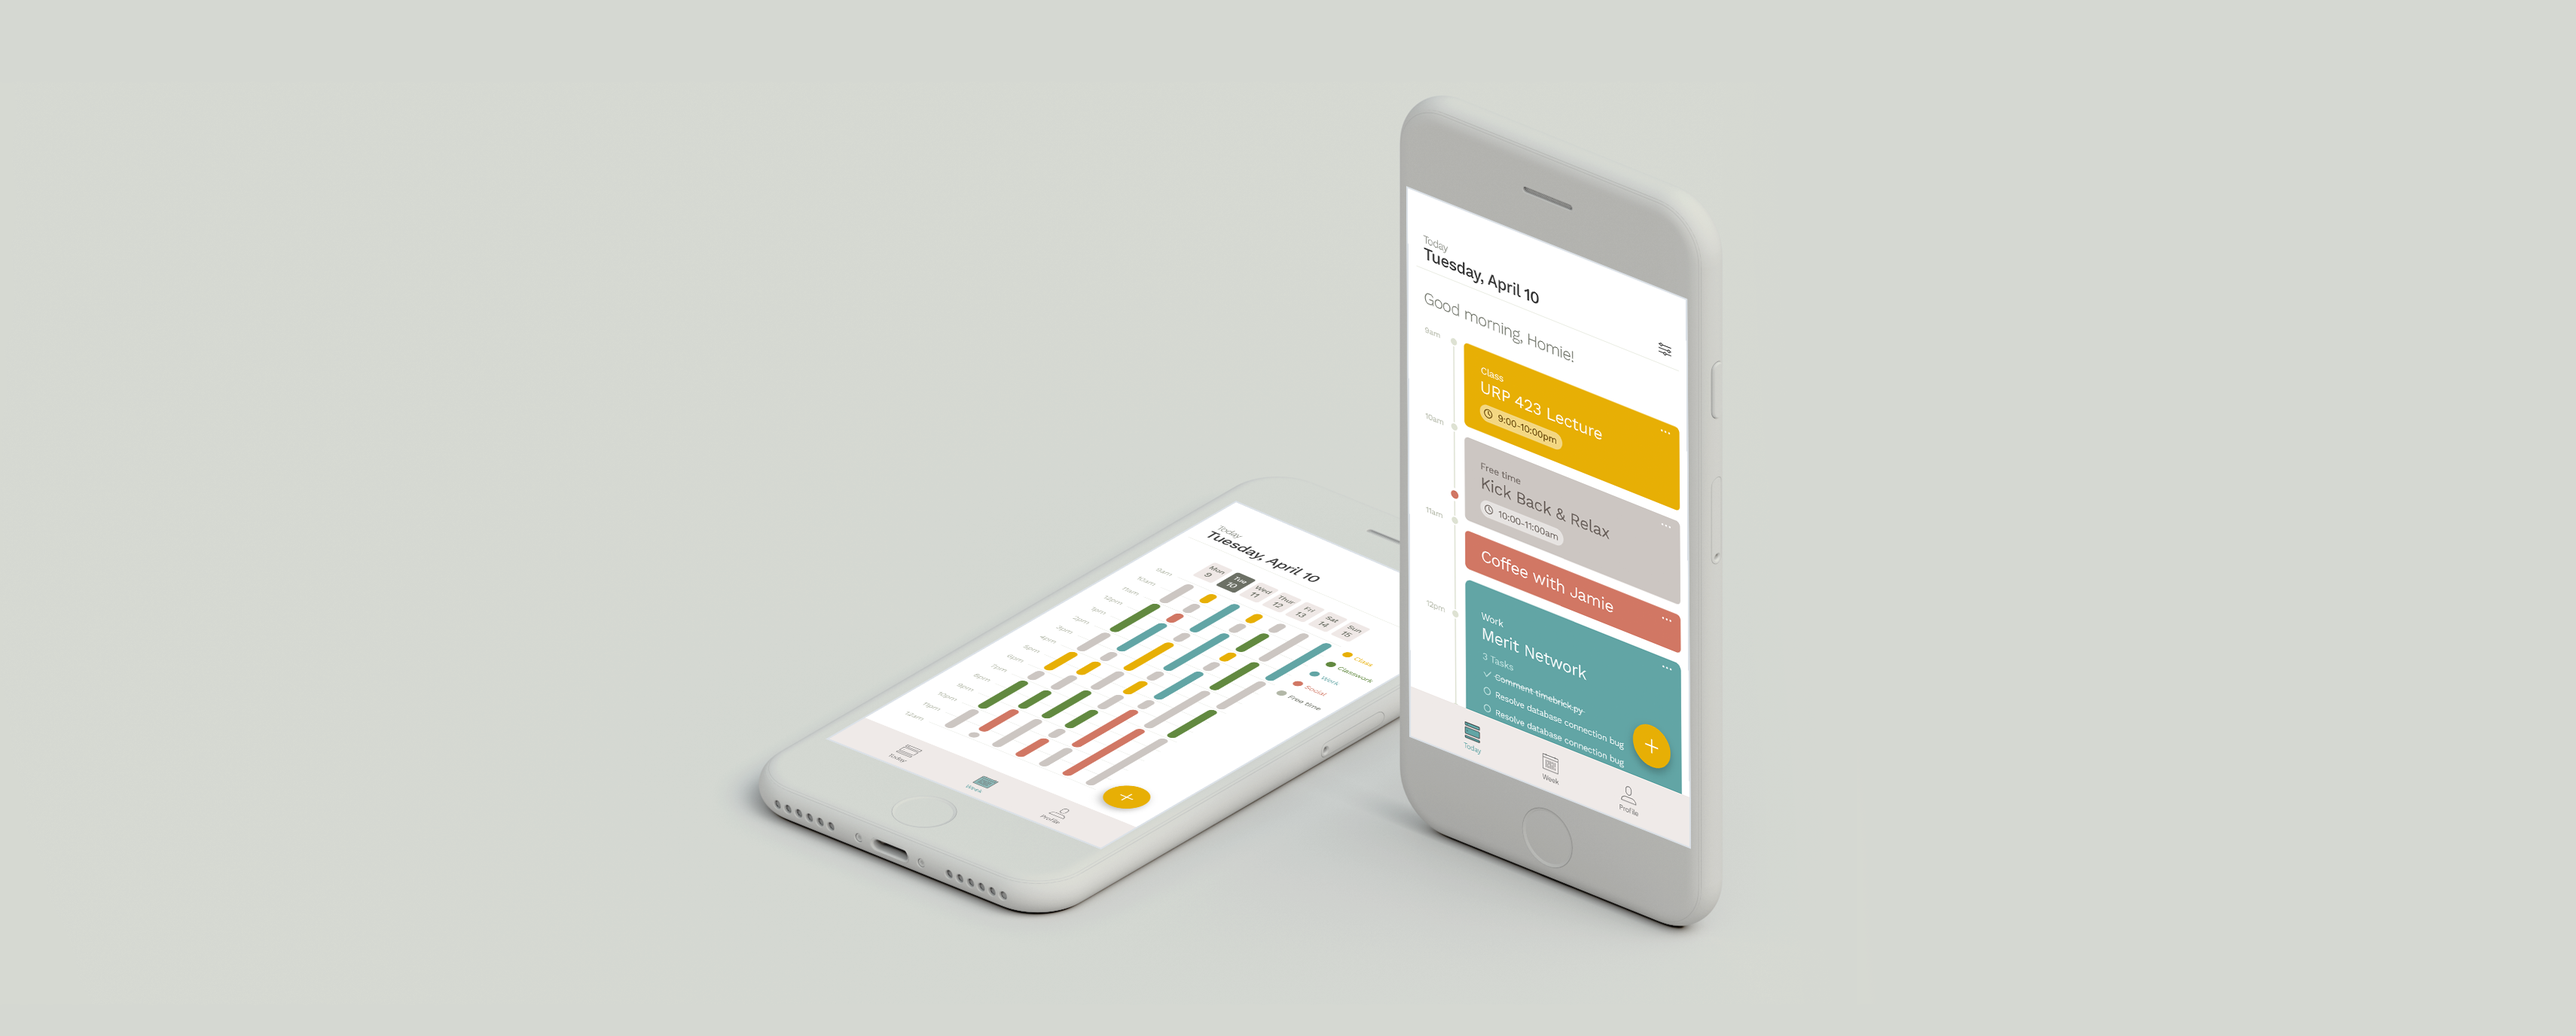
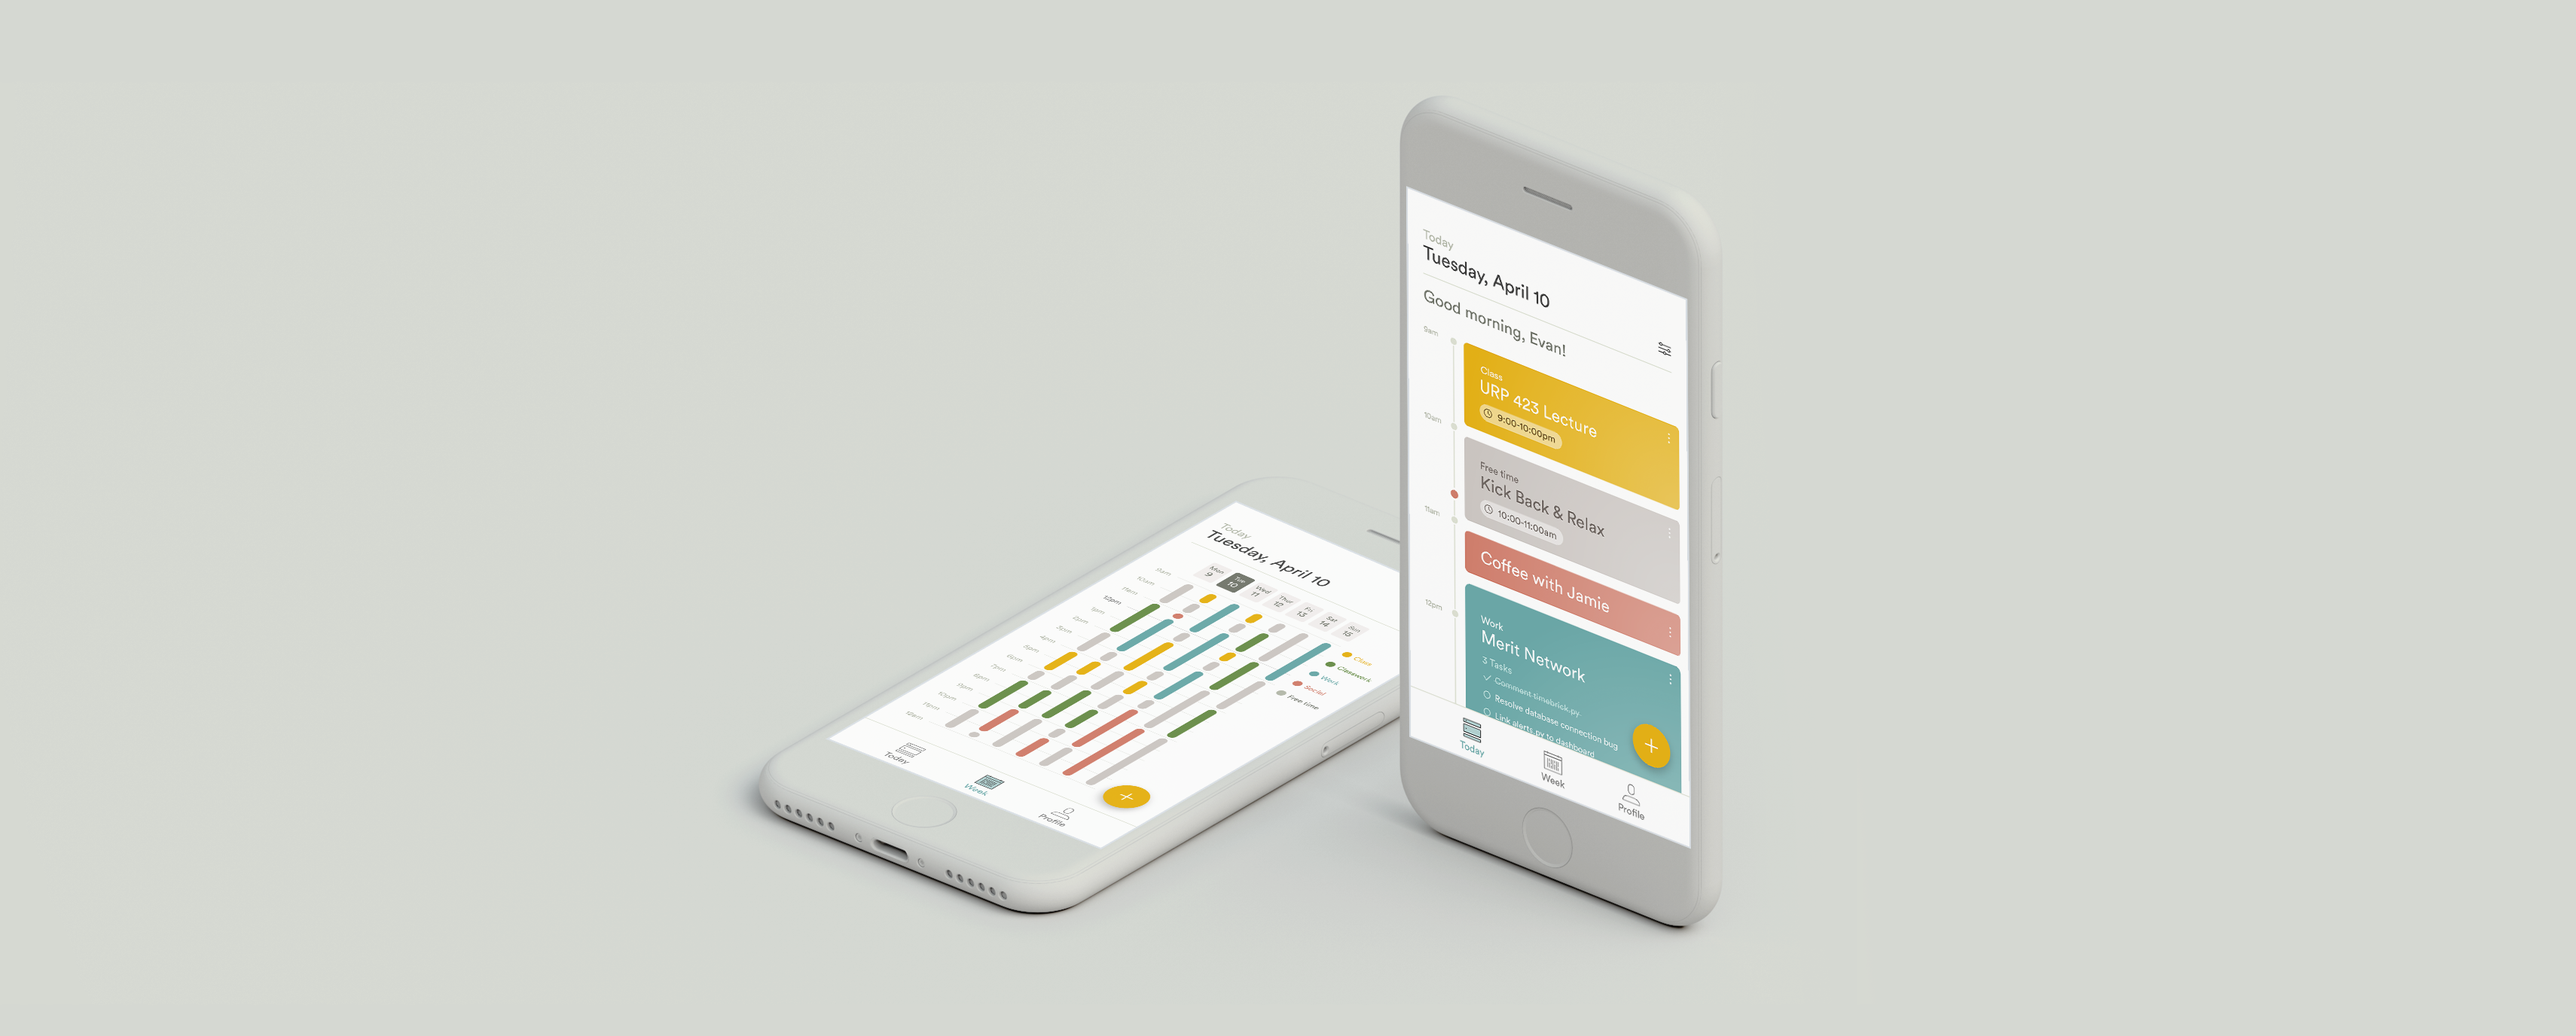
Lifework updates

diff --git a/lifework.html b/lifework.html
@@ -105,25 +105,51 @@
 
 		<div class="project_section">
 			<h3 class="lifework-color">The Process: Design</h3>
-			<span class="summary">To effectively design a solution to reduce stress related to time management, I had to create a system for visualizing how time is used that avoided the daunting look of an average calendar layout. </span>
+			<span class="summary">To effectively design a solution to reduce stress related to time management, I had to prioritize free time and social time just as much as class, classwork, and work as well as create a system for visualizing how time is used that avoided the daunting look of an average calendar layout.</span>
 
 			<h4>Wireframing</h4>
 			<p class="last-p">With the key findings and persona in mind, I began wireframing ideas of the general functionality of the application. I identified four main pages of the application: daily schedule, weekly schedule, event creation, and profile. These pages were essentially the minimum content and functionality that would allow the users to benefit from the app.</p>
 
-			<h4>Visualizing Time</h4>
-			<p>With these main pages in mind, the primary issue that I had to solve was creating a system for visualizing time management. I wanted to avoid the common calendar layout (similar to Google Calendar) as this can quickly become daunting as more events are added to a calendar.</p>
+			<img src="static/lifework/process-01.png">
 
-			<p class="last-p">While my design for the daily schedule page was a simple scrollable timeline, my design for the weekly schedule focused on a simple “mosaic” plot of how time is being used each day. Within the visualization itself, no information is given further than the event-types (free time, social, work, class, or classwork) and the times they occupy. This reduces cognitive overload by avoiding excessive information and allows the user to focus on how they are spending their time each day rather than what exact things they have planned. The user can tap an event to see more details, but this mosaic visualization focuses on time management rather than specific tasks.</p>
+			<h4>Feedback on Wireframes</h4>
+			<p>Based on feedback from my wireframes, I realized two main issues. The first was that free time and social time should be categorized as events on a schedule just as work or class were. This would help reinforce the idea that free time and social time were built into the schedule and just as important as school and work.</p>
+
+			<p class="last-p">The second point of feedback was that the weekly schedule should be portrayed in a less daunting manner than the common calendar layout (similar to Google Calendar) as this can quickly become daunting as more events are added to a calendar.</p>
+
+			<h4>Daily Schedule</h4>
+			<p class="last-p">I began creating visual mockups of how information would be presented on event cards that would fill users’ daily schedules. I focused on creating a colorful and pleasant visual style with enough contrast and bold colors to quickly identify event-types (class, classwork, work, social, free time). In presenting information, I decided that salience based on color was an important factor in allowing quick identification of event type, but text displaying event type was also needed to clear any confusion and ensure accessibility.</p>
+
+			<img src="static/lifework/process-03.png">
+
+			<h4>Visualizing Weekly Time</h4>
+			<p class="last-p">While my design for the daily schedule page was a simple scrollable timeline, my design for the weekly schedule focused on a simple “mosaic” plot of how time is being used each day. Within the visualization itself, no information is given further than the event-types  and the times they occupy. This reduces cognitive overload by avoiding excessive information and allows the user to focus on how they are spending their time each day rather than what exact things they have planned. The user can tap an event to see more details, but this mosaic visualization focuses on time management rather than specific tasks.</p>
+
+			<img src="static/lifework/process-02.png" class="small-img">
+
+		</div>
+
+		<div class="project_section">
+			<h3 class="lifework-color">The Product</h3>
+			<span class="summary">As a concept product, I created a simple prototype of Lifework as well as experimented with motion design to give a closer look at how people would interact with the interface of the application.</span>
+
+			<h4>Hi-Fi Mock Ups</h4>
+			<p class="last-p">As a concept product, I could focus on creating a pleasant user experience for Lifework rather than building around the technical constraints that would come along with creating an application that syncs with so many other systems. I took this opportunity to create high fidelity mockups in both Adobe Illustrator as well as InVision Studio.</p>
+
+			<img src="static/lifework/hi-fi-mockups-01.png" class="large-img">
+
+			<h4>Simple InVision Prototype</h4>
+			<p>Aside from mockups and motion design, I also created a simple InVision prototype to layout the general functionality of Lifework.</p>
+
+			<p>Interact with the prototype <a href="https://invis.io/6CGE9VXJFVT" target=_blank>here</a>.</p>
 
 		</div>
 
 		<div class="project_section">
 			<h3 class="lifework-color">Reflection</h3>
-			<h4>Asking Questions</h4>
-			<p>Coming into the project, I found myself in a position where I had not been throughout my education or other jobs I’ve had: utter confusion. Throughout my education, I could almost always get by without admitting my confusion. I could read a textbook or wait for another student to ask the question that I had. At Merit, however, nobody was there to ask these questions for me, and randomly picking articles and documentation to read about the subject often felt like reading a foreign language. I quickly learned that I had to admit my confusion and ask questions, even about seemingly simple concepts, to ensure that I could move forward in the project.</p>
+			<h4>Considering Technical Constraints in Concept Products</h4>
+			<p class="last-p">With this project, I basically disregarded all technical constraints of the mobile application I was designing. While this allowed me to focus on other aspects such a visual design, this decision did alter a major part of the design approach: determining if this is actually the best way to solve the problem. Instead of designing a practical, feasible solution that solves the problem of stress due to time management, I designed a solution that would work in theory, but brings up many development and cyber security issues of creating an app that relies on syncing with a large amount of other applications. In the end, Lifework theoretically solved a problem, but also raised many questions that I did not necessarily have the answer for.</p>
 
-			<h4>Applying Prior Experience to New Fields</h4>
-			<p>Aside from asking for help to understand the field that I was working in, I find myself in a position where I am able to explore the relationship between my experience in design with the work I am doing with internet networks and security. My work at Merit is to not only to develop applications for our AMON software, but also to ensure that what we are building offers a simple interface for people to interact with and understand the data they observe. While the concept of internet networks and security was a new field to me, the way people interact with the applications that let them explore this field ties back to all the experience I have with user experience design and human computer interaction.</p>
 		</div>
 
 	</div>

diff --git a/index5.html b/index5.html
@@ -52,7 +52,7 @@ ________________________________________________________________________________
 <div class="wrapper">
 	<div class="content">
 		<div class="jumbotron">
-			<p>I’m Evan Pesch,</br><span class="light_header">a co-creator and writer of TV show (still in development) titled Peck & Sanford.</span></p>
+			<p>I’m Evan Pesch,</br><span class="light_header">a co-creator and writer of a TV show titled Peck & Sanford about urban development in a rustbelt town.</span></p>
 		</div>
 	</div>
 

diff --git a/static/style_test.css b/static/style_test.css
@@ -424,7 +424,7 @@ a
 .social .fa {
 	color: #99988c;
 	font-size: 1.3em;
-	width: 30px;
+	width: 40px;
 	text-decoration: none;
 	transition:0.3s;
 }
